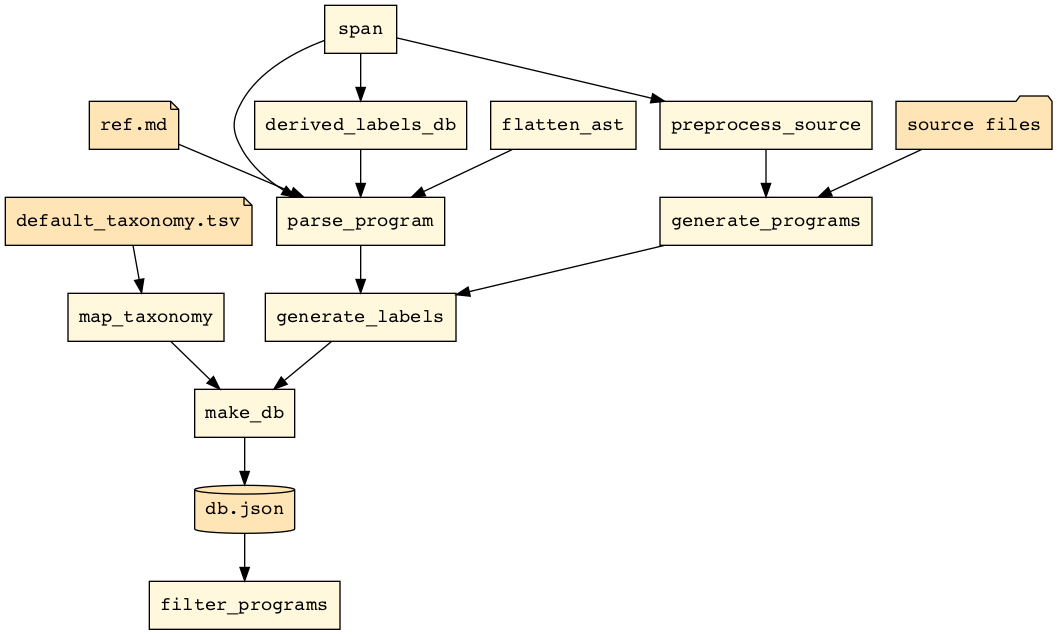
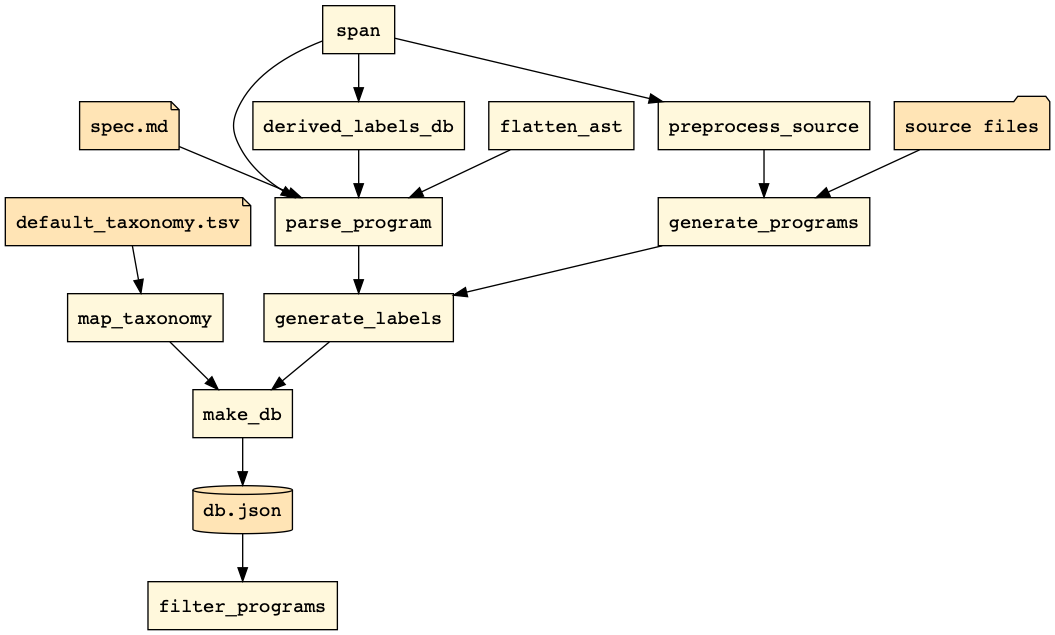
rename ref.md into spec.md

diff --git a/paroxython/parse_program.py b/paroxython/parse_program.py
@@ -37,10 +37,10 @@ find_all_constructs = regex.compile(
 class ProgramParser:
     """Compile the given construct definitions, and search them in a Program."""
 
-    def __init__(self, ref_path: str = "docs/ref.md") -> None:
+    def __init__(self, spec_path: str = "docs/spec.md") -> None:
         """Compile the constructs to search."""
-        self.ref_path = Path(ref_path)
-        text = self.ref_path.read_text()
+        self.spec_path = Path(spec_path)
+        text = self.spec_path.read_text()
         self.constructs: Dict[LabelName, regex.Pattern] = {}
         self.queries: Dict[LabelName, Query] = {}
         for (label_name, language, pattern) in find_all_constructs(text):

diff --git a/helpers/draw_flow.py b/helpers/draw_flow.py
@@ -14,12 +14,12 @@ Path(f"{base}.dot").write_text(
     % "\n".join(
         [
             '"db.json" [shape=cylinder fillcolor=moccasin]',
-            '"ref.md" [shape=note fillcolor=moccasin]',
+            '"spec.md" [shape=note fillcolor=moccasin]',
             '"default_taxonomy.tsv" [shape=note fillcolor=moccasin]',
             '"source files" [shape=folder fillcolor=moccasin]',
             'make_db -> "db.json"',
             '"db.json" -> filter_programs',
-            '"ref.md" -> parse_program',
+            '"spec.md" -> parse_program',
             '"source files" -> generate_programs',
             '"default_taxonomy.tsv" -> map_taxonomy',
         ]

diff --git a/tests/test_parse_program.py b/tests/test_parse_program.py
@@ -165,9 +165,9 @@ def extract_examples(construct_path):
 
 
 parse = ProgramParser()
-reformat_file(parse.ref_path)
+reformat_file(parse.spec_path)
 examples = []
-for match in extract_examples(parse.ref_path):
+for match in extract_examples(parse.spec_path):
     label_name = match.group(1)
     source = match.group(2)
     source = regex.sub(r"(?m)^.{1,4}", "", source)
